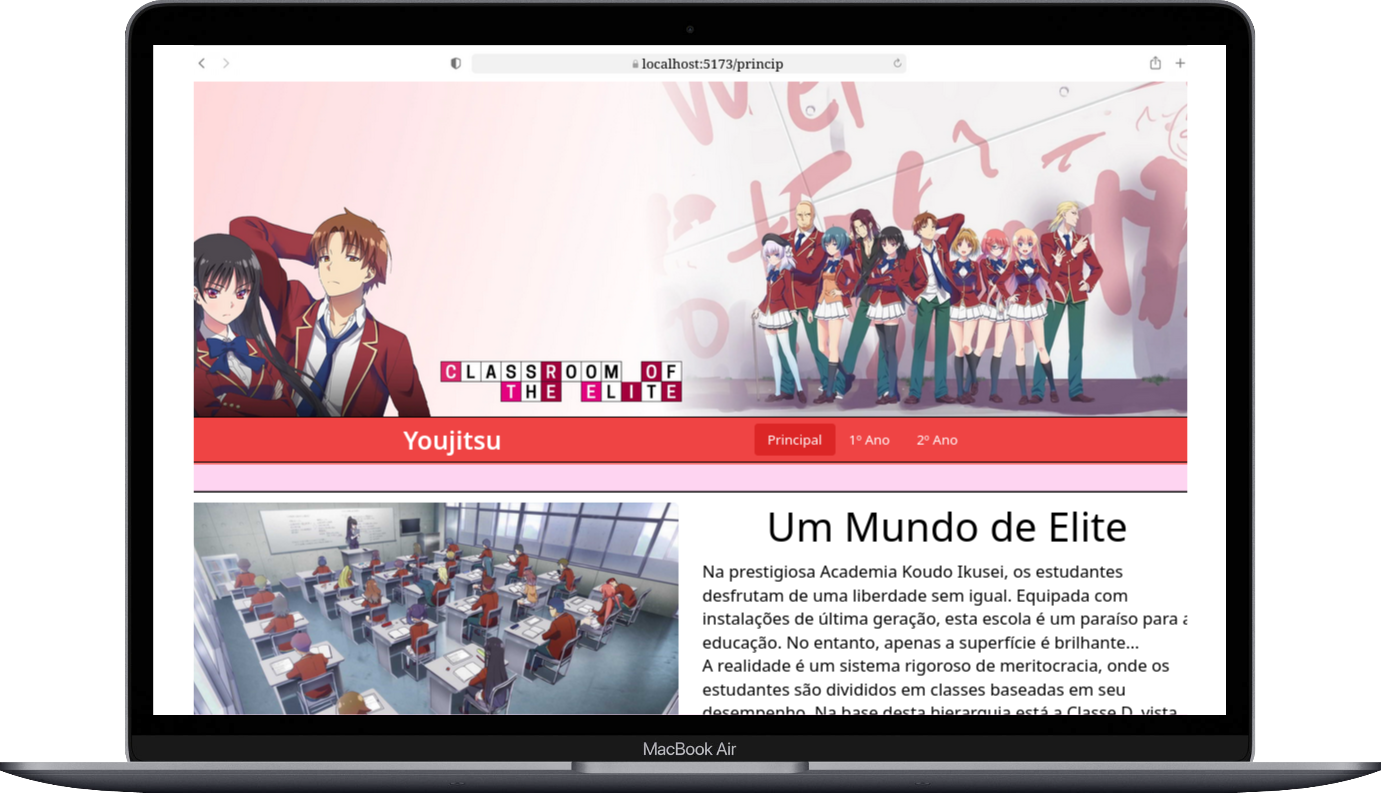
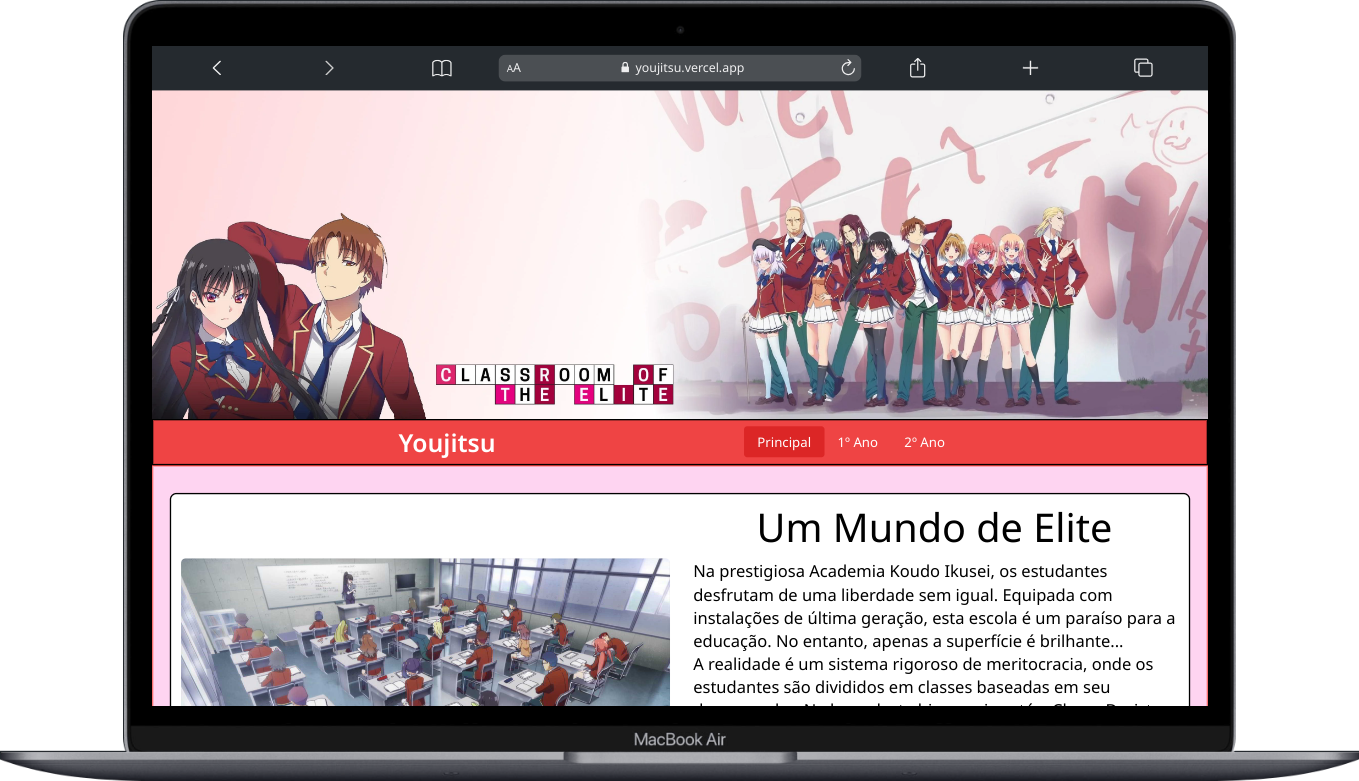
adicao novo projeto

diff --git a/src/app/projects/projects.component.ts b/src/app/projects/projects.component.ts
@@ -26,6 +26,14 @@ export class ProjectsComponent {
     },
     {
       id:2,
+    title:"Classroom Of the Elite",
+    description:"Fan Site da light novel",
+    imageUrl:"youjitsuMac.png",
+    link:"https://youjitsu.vercel.app/",
+    linkGitHub:"https://github.com/ThiagoGMota/Youjitsu-",
+    },
+    {
+      id:3,
     title:"Chess Championship",
     description:"Landing page torneio de xadrez",
     imageUrl:"lpChessMac.png",
